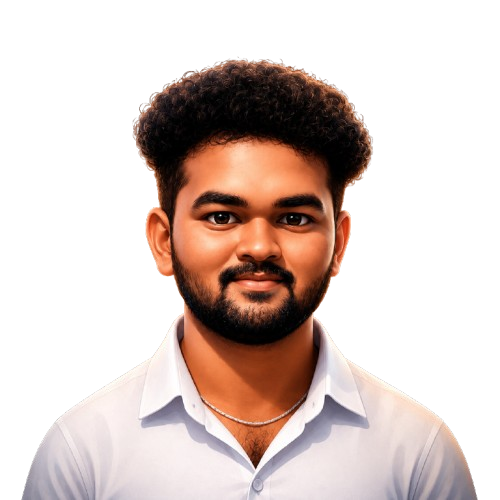
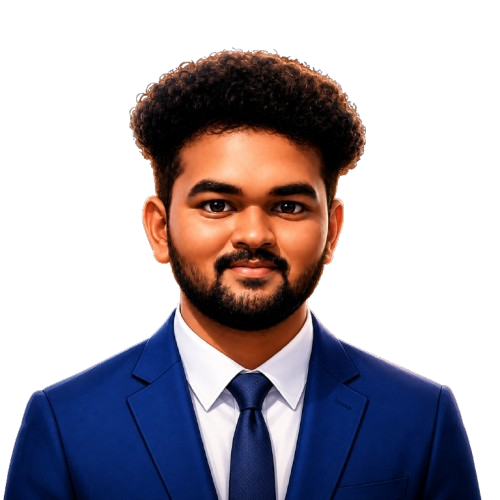
update

diff --git a/src/components/Layout.jsx b/src/components/Layout.jsx
@@ -56,13 +56,7 @@ const Layout = () => {
               >
                 Contact
               </Link>
-              <button
-                onClick={toggleTheme}
-                className="p-2 rounded-full bg-[var(--surface)] hover:text-[var(--color-orange)] transition-colors"
-                aria-label="Toggle theme"
-              >
-                {darkMode ? <Sun size={20} /> : <Moon size={20} />}
-              </button>
+             
             </div>
 
             {/* Mobile Menu Button */}

diff --git a/src/components/Hero.jsx b/src/components/Hero.jsx
@@ -2,7 +2,7 @@ import { useRef } from "react";
 import { ArrowRight } from "lucide-react";
 import { Link } from "react-router-dom";
 import { motion, useScroll, useTransform } from "framer-motion";
-import profileScrolledImg from "../assets/profile_scrolled.jpg";
+import profileScrolledImg from "../assets/profile_entry.png";
 
 const Hero = () => {
   const containerRef = useRef(null);
